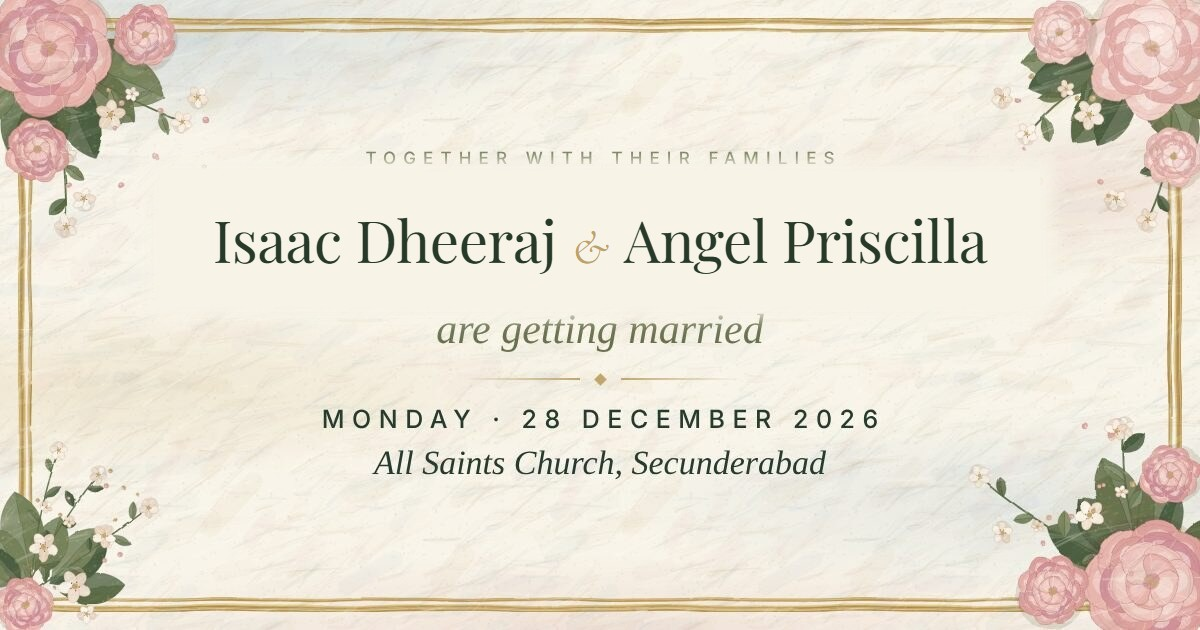
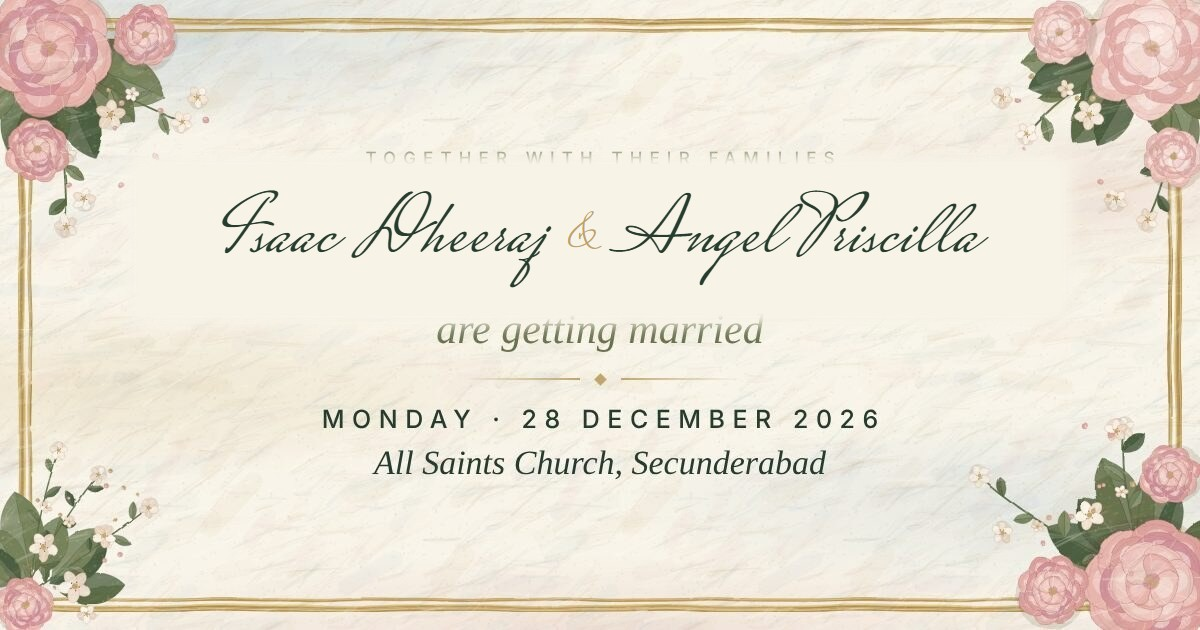
feat: match custom share card image typography to Mrs Saint Delafield calligraphy script and update meta to og-image-v4

diff --git a/index.html b/index.html
@@ -12,7 +12,7 @@
   <meta property="og:title" content="Isaac Dheeraj &amp; Angel Priscilla are getting married">
   <meta property="og:description" content="28 December 2026 · All Saints Church, Secunderabad">
   <meta property="og:url" content="https://dheeraj-and-angel.vercel.app/">
-  <meta property="og:image" content="https://dheeraj-and-angel.vercel.app/og-image-v3.jpg">
+  <meta property="og:image" content="https://dheeraj-and-angel.vercel.app/og-image-v4.jpg">
   <meta property="og:image:type" content="image/jpeg">
   <meta property="og:image:width" content="1200">
   <meta property="og:image:height" content="630">
@@ -21,7 +21,7 @@
   <meta name="twitter:card" content="summary_large_image">
   <meta name="twitter:title" content="Isaac Dheeraj &amp; Angel Priscilla are getting married">
   <meta name="twitter:description" content="28 December 2026 · All Saints Church, Secunderabad">
-  <meta name="twitter:image" content="https://dheeraj-and-angel.vercel.app/og-image-v3.jpg">
+  <meta name="twitter:image" content="https://dheeraj-and-angel.vercel.app/og-image-v4.jpg">
 
   <!-- ===== FAVICON ===== -->
   <link rel="icon" href="/favicon.ico" sizes="48x48">
